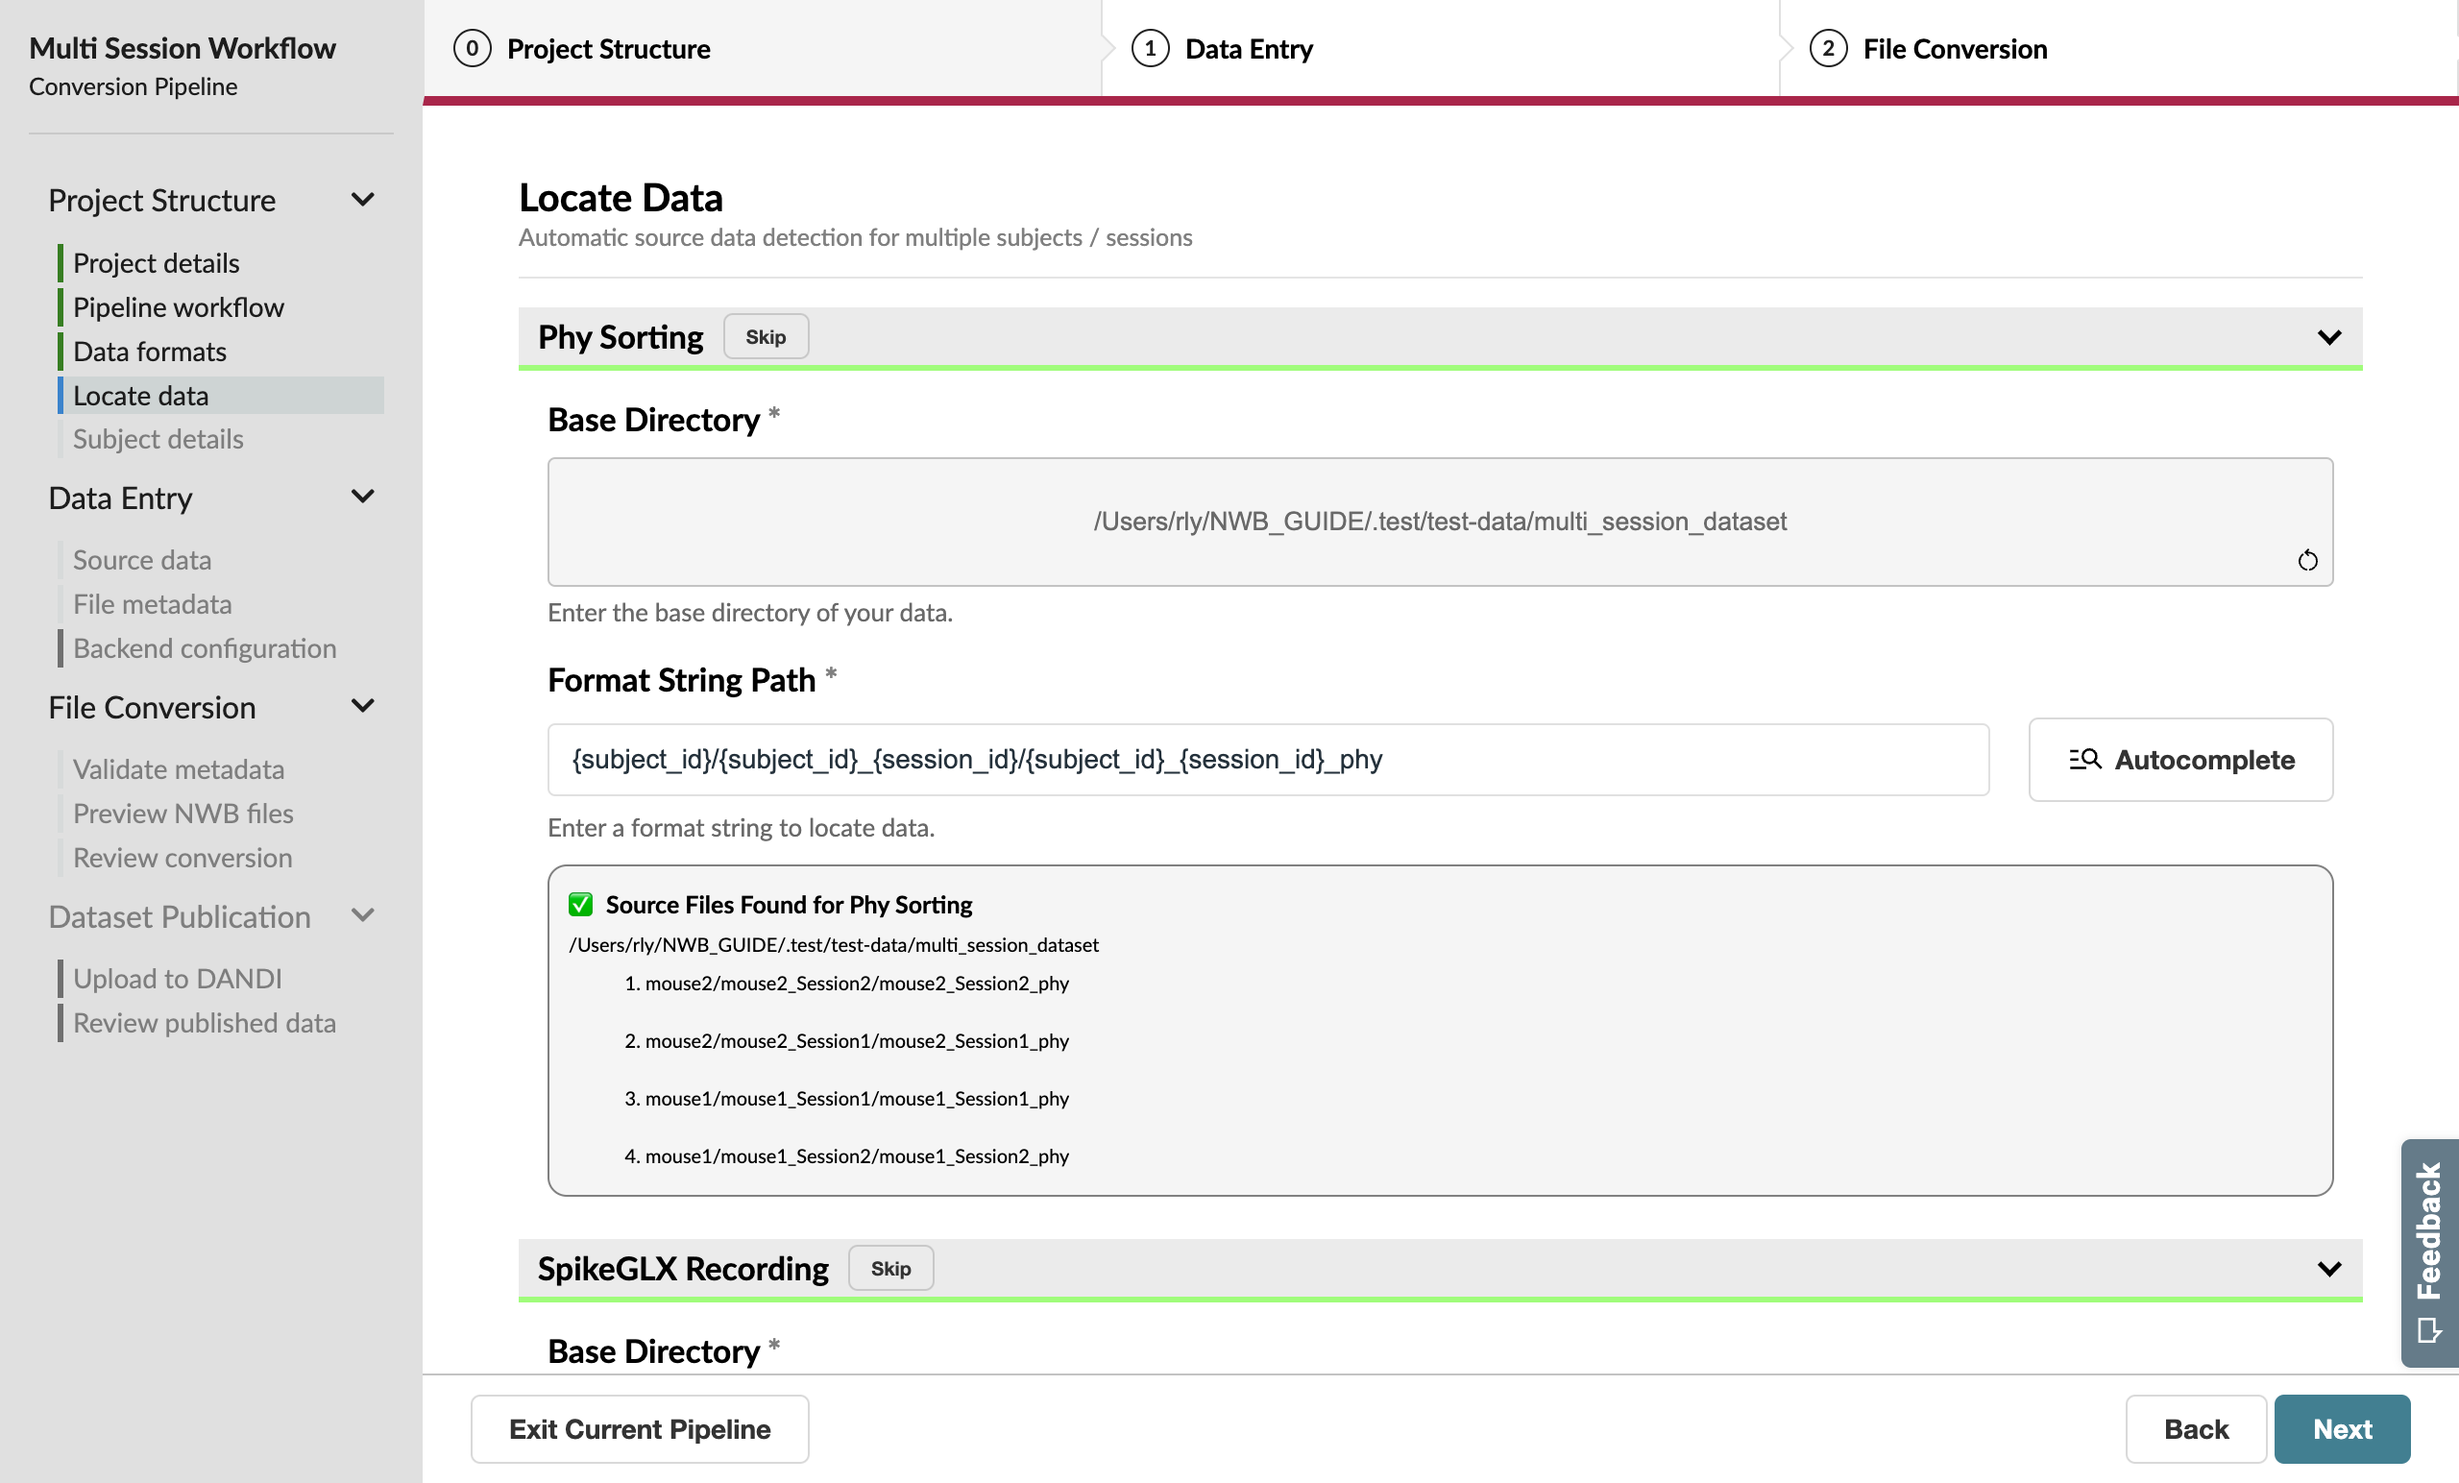
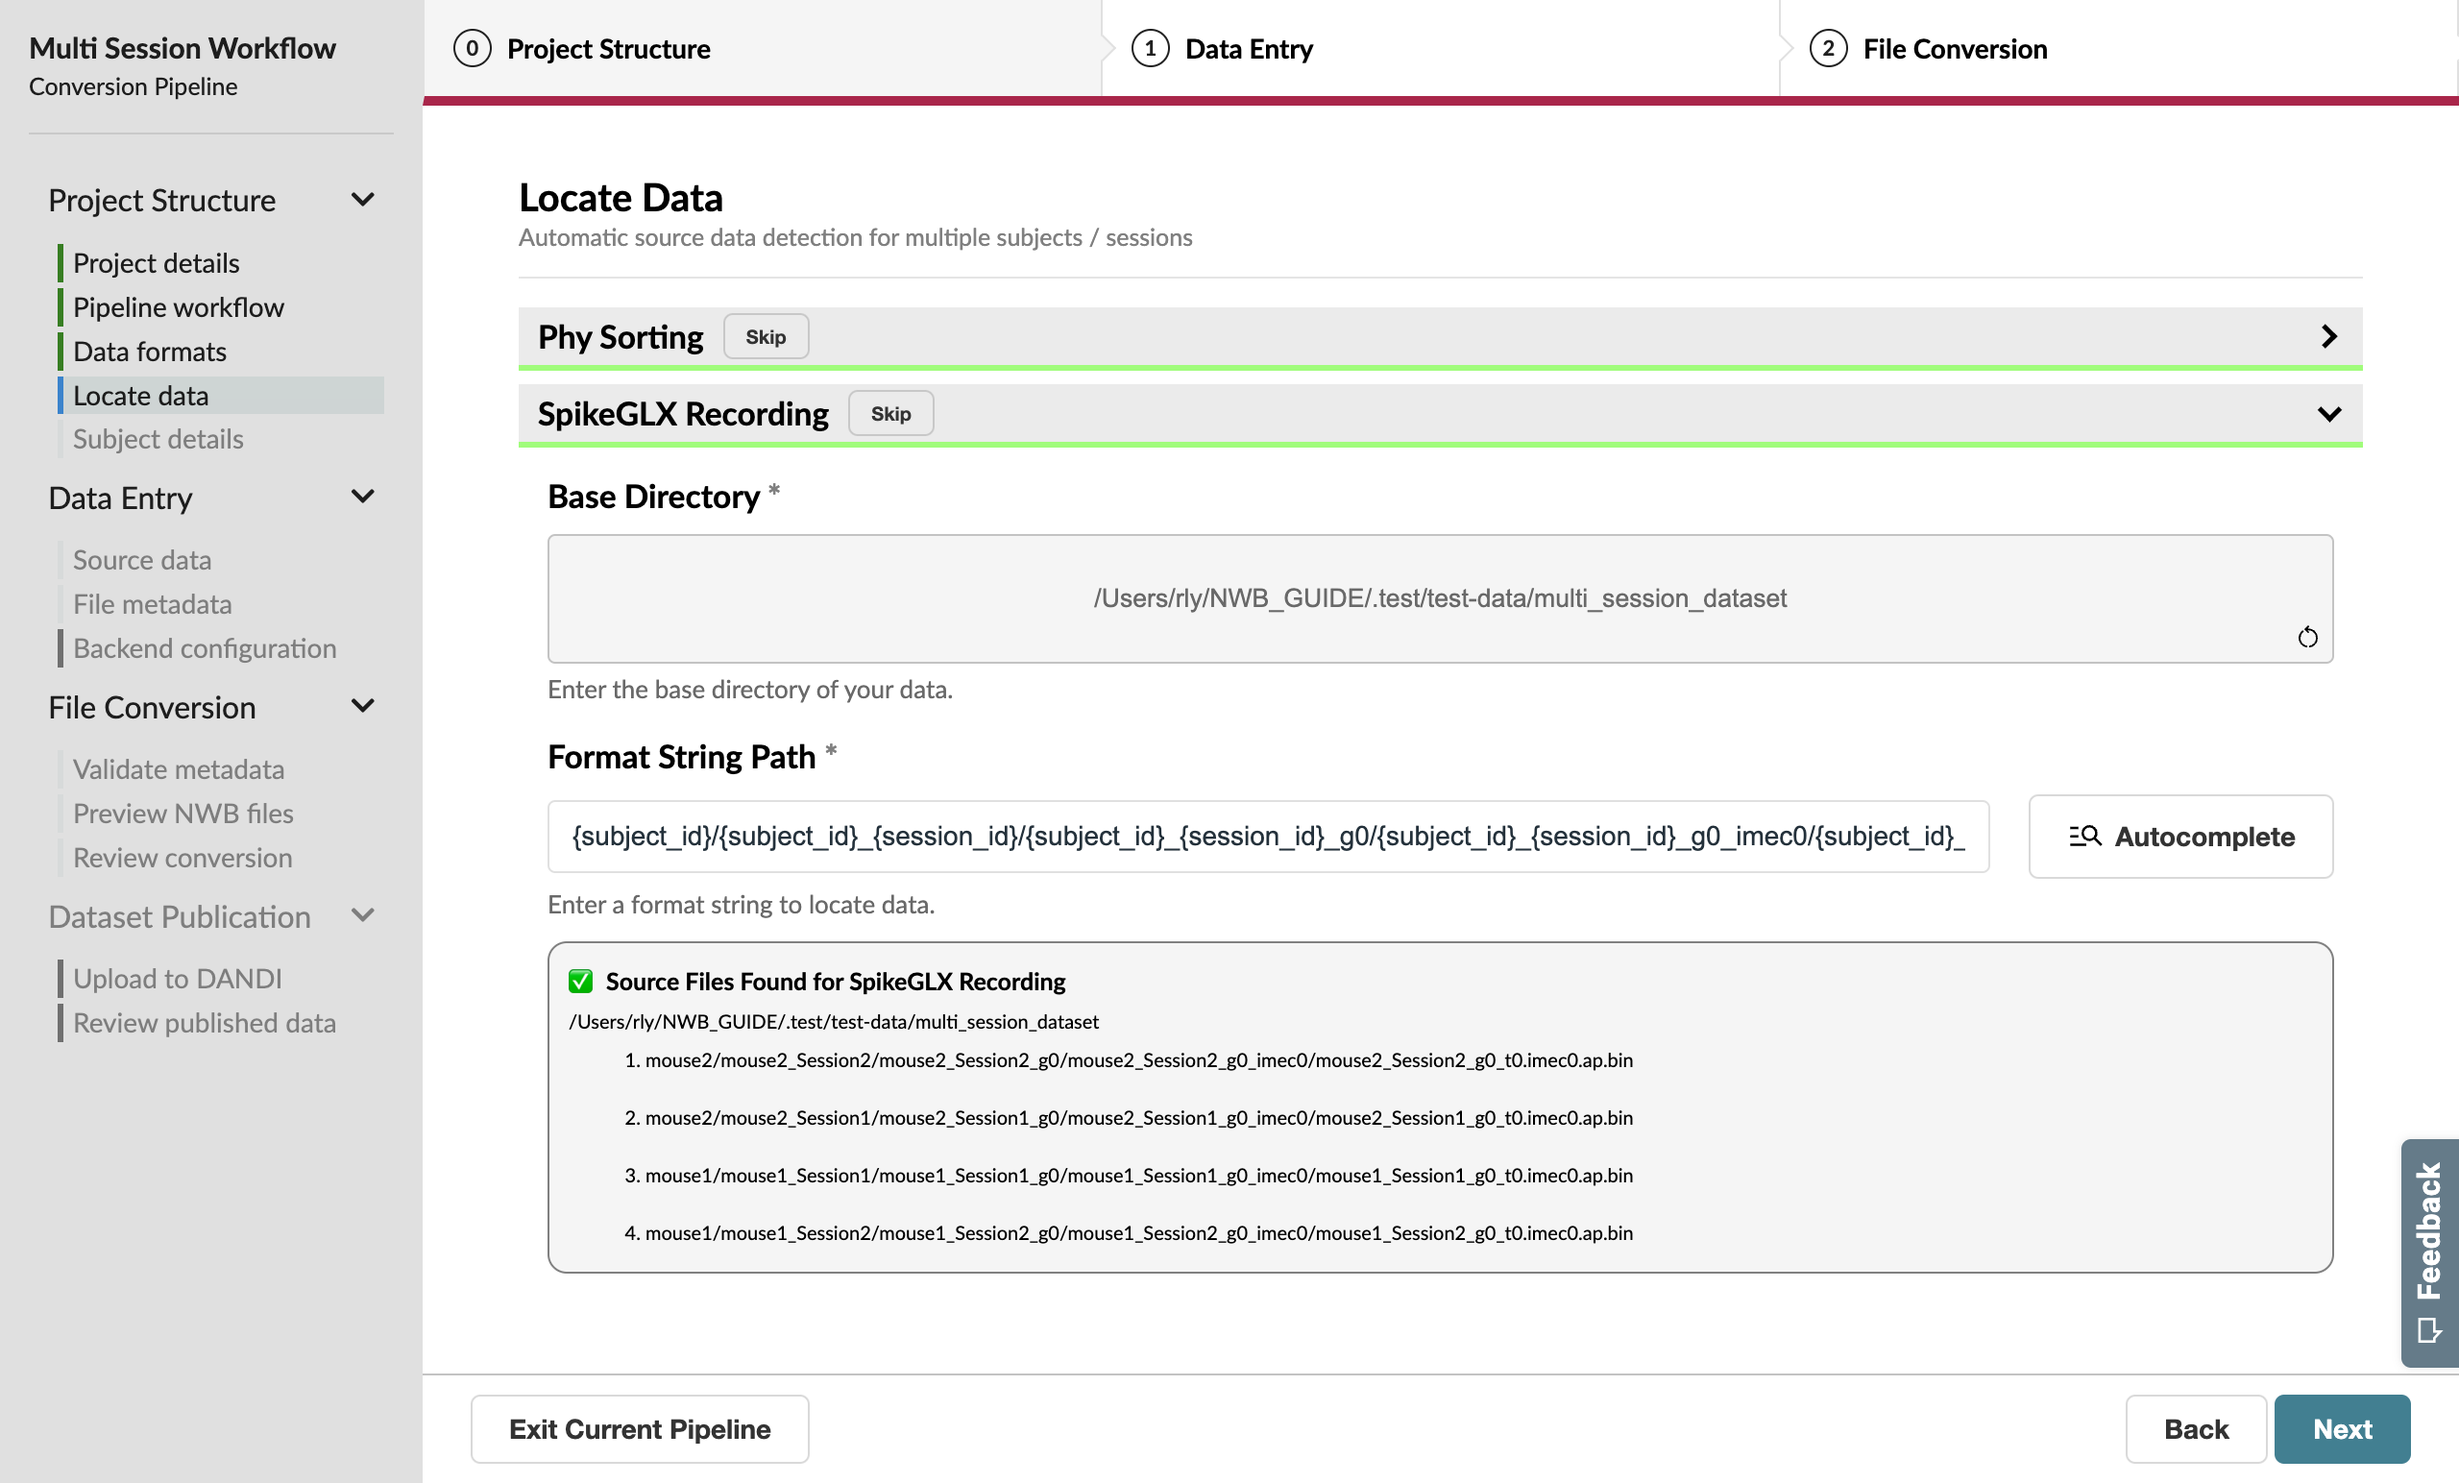
Fix spikeglx path exp screenshot, update scrnshots

diff --git a/tests/e2e/workflow.ts b/tests/e2e/workflow.ts
@@ -237,6 +237,14 @@ export default async function runWorkflow(name, workflow, identifier) {
 
     await takeScreenshot(join(identifier, 'pathexpansion-autocomplete-submitted'), 1000)
 
+    // collapse the first interface accordion for the screenshot
+    await evaluate(() => {
+      const dashboard = document.querySelector('nwb-dashboard')
+      const page = dashboard.page
+      const first = Object.values(page.form.accordions)[0]
+      first.toggle(false)
+    })
+
     // Fill out the other path expansion information
     await evaluate(({ multi, common }) => {
       const dashboard = document.querySelector('nwb-dashboard')
@@ -253,7 +261,6 @@ export default async function runWorkflow(name, workflow, identifier) {
       })
 
     }, testInterfaceInfo)
-
 
     await takeScreenshot(join(identifier, 'pathexpansion-completed'), 300)
 
